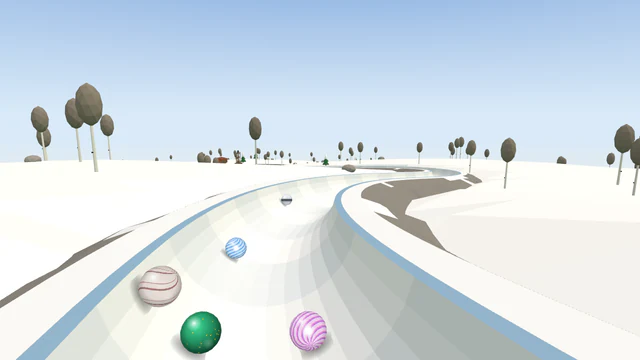
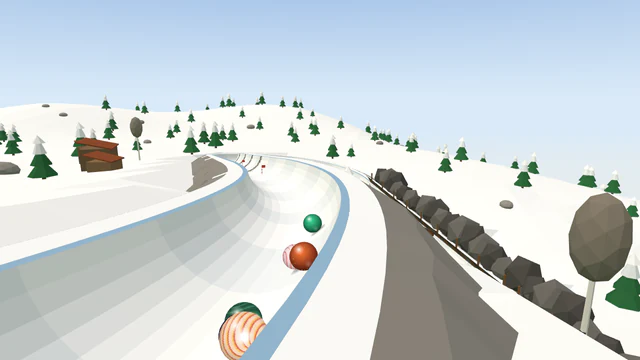
Park City Run: its own layout and opening; its records start again
Until now physically the same track as Dubai Twister. A rolling start from
the summit lift station (the field let go in waves) and a wide first turn,
S-bends through the aspens, the hairpin by the elk, into the timbered mine
tunnel and down the old silver mine's shaft (the big feature and new
signature), the terrain-park run, the spiral and Main Street. Full report
50/50; Wild 37. Data updates 2027-07-20. Off the known failures.

Claude-Session: https://claude.ai/code/session_011vSSkqNPL9kncfzrwF15wS

diff --git a/src/tracks/park-city-run.js b/src/tracks/park-city-run.js
@@ -4,8 +4,8 @@
 // Park City's historic Main Street. Moses's design ("New Track Designs", 7),
 // built with the track kit. (An elk, not a moose: Bobsleigh Run has the moose.)
 const {
-  track, plunge, straight, sBends, sweep, spiral, hairpin, splitter, runIn,
-  block, pileUp, parked, slalom, boost, moguls,
+  track, opening, plunge, straight, sBends, spiral, hairpin, runIn,
+  block, parked, slalom, moguls, peg, brake,
 } = require('../trackKit');
 
 module.exports = track({
@@ -16,10 +16,11 @@ module.exports = track({
   surface: 'snow',
   biome: 'alpine',
   lighting: 'day',
-  signature: 'Mine tunnel',
+  signature: 'Down the Silver King shaft',
   tvCameras: [
-    { section: 'Mine tunnel', at: 0.8, side: 'left', distance: 6, height: 12 },
-    { section: 'Mine splitter', at: 0.8, side: 'right', distance: 6, height: 5 },
+    // (At the foot of the shaft, looking back up it at the field dropping out of the mine.)
+    { section: 'Terrain-park run', at: 0.2, side: 'left', distance: 6, height: 10 },
+    { section: 'Aspen S-bends', at: 0.5, side: 'right', distance: 6, height: 6 },
   ],
   billboardFrame: 'wood',
   // The gate at a summit lift station, the Wasatch peaks all around; the finish at the
@@ -27,33 +28,48 @@ module.exports = track({
   start: { landmark: 'lift-station', scenery: ['bare'], gate: 'barrier', shots: { countdown: 'above', launch: 'high-behind' } },
   finish: { scenery: ['shopfronts'] },
   designChanges: [
-    'A 50 m straight, "Run to the hairpin", before the hairpin: the recipe needs a braking zone before the one sharp bend.',
-    'A few elk on the summit plunge (a pile-up before the slalom gates): without it the strongest marbles win too often, as on Åre Run.',
+    'Its own layout and opening (Moses, 15 Nov 2026: World Tour re-layouts): a rolling start down from the lift station (the field let go in waves) and a wide first turn, S-bends through the aspens, the hairpin by the elk, into the timbered mine tunnel and down the old silver mine\'s shaft (the big feature: a long steep drop), the terrain-park run, the spiral and Main Street.',
+    'A straight, "Run to the hairpin", before the hairpin: the recipe needs a braking zone before the one sharp bend.',
   ],
+  // (The rolling start: down from the summit lift station through the gates, a wide first turn; let go in jittered
+  // waves, a new order every race.)
+  opening: opening('rolling-start', {
+    side: 'right',
+    names: { run: 'Summit run', turn: 'Lift-line turn' },
+    waves: { groups: 5, gap: 0.14, jitter: 0.1 },
+  }),
   sections: [
     {
-      name: 'Summit plunge', shape: plunge(80, { grade: 0.6 }),
-      obstacles: [pileUp({ costume: 'elk', at: 0.42 }), slalom({ from: 0.55, to: 0.97, count: 6, loss: 0.3 })], scenery: ['bare'],
+      name: 'Aspen S-bends', shape: sBends({ first: 'left', radius: 70, degrees: 80, grade: 0.11 }), scenery: ['aspens'], billboards: 2,
+      obstacles: [peg({ costume: 'snowman', at: 0.3, line: 'right' }), peg({ costume: 'snowman', at: 0.7, line: 'left' })],
     },
-    { name: 'Aspen S-bends', shape: sBends({ first: 'left', radius: 75, degrees: 80, grade: 0.13 }), scenery: ['aspens'], billboards: 1 },
-    {
-      name: 'Mine splitter', shape: splitter({ side: 'left', balance: { tipOffset: -0.8, left: { drag: 1.42, scrub: 1.42 }, right: { drag: 0.42, scrub: 0.72 } } }),
-      around: 'mine-headframe', landmarks: [{ name: 'mine-buildings', at: 0.6, side: 'right', distance: 16 }], scenery: ['aspens'],
-    },
-    { name: 'Valley sweep', shape: sweep({ side: 'right', radius: 80, degrees: 160, grade: 0.08 }), features: [boost({ at: 0.08 })], billboards: 2, scenery: ['pines'] },
     // (Not in the design: the recipe's braking zone needs a straight before the one sharp bend.)
-    { name: 'Run to the hairpin', shape: straight(50, { grade: 0.13 }), billboards: 1, scenery: ['aspens'] },
+    {
+      name: 'Run to the hairpin', shape: straight(55, { grade: 0.13 }), scenery: ['aspens'],
+      landmarks: [{ name: 'mine-buildings', at: 0.5, side: 'right', distance: 16 }],
+      obstacles: [slalom({ from: 0.15, to: 0.6, count: 3, loss: 0.3 })],
+    },
     { name: 'Hairpin', shape: hairpin({ side: 'left' }), obstacles: [block({ costume: 'elk', line: 'high', size: 'large' })], scenery: ['pines'] },
     {
-      name: 'Mine tunnel', shape: straight(70, { grade: 0.19 }), tunnel: 'mine',
+      name: 'Mine tunnel', shape: straight(60, { grade: 0.15 }), tunnel: 'mine',
       obstacles: [parked({ costume: 'ore-cart', at: 0.45, side: 'right', length: 8 })],
     },
+    // The track's big feature: a long steep drop down the old silver mine's shaft.
+    { name: 'Down the Silver King shaft', shape: plunge(80, { grade: 0.4, from: 0.16 }), tunnel: 'mine' },
     {
-      name: 'Terrain-park run', shape: straight(110, { grade: 0.22 }),
-      features: [moguls({ from: 0.35, to: 0.9, count: 6 })], figures: ['snowboarder', 'snowboarder', 'skier'],
+      name: 'Terrain-park run', shape: straight(90, { grade: 0.13 }), billboards: 1,
+      features: [brake({ at: 0.05, length: 12, drag: 0.02 }), moguls({ from: 0.4, to: 0.9, count: 6 })], figures: ['snowboarder', 'snowboarder', 'skier'],
       landmarks: [{ name: 'snow-park', at: 0.5, side: 'left', distance: 12 }], scenery: ['pines'],
     },
-    { name: 'Spiral', shape: spiral({ side: 'right', radius: 45, grade: 0.17 }), scenery: ['pines'] },
+    {
+      name: 'Spiral', shape: spiral({ side: 'left', radius: 45, grade: 0.13 }), scenery: ['pines'],
+      obstacles: [peg({ costume: 'snowman', at: 0.35, line: 'left' }), peg({ costume: 'snowman', at: 0.7, line: 'right' })],
+    },
+    {
+      name: 'Main Street', shape: straight(75, { grade: 0.13 }), billboards: 1, scenery: ['shopfronts'],
+      features: [brake({ at: 0.05, length: 12, drag: 0.02 })],
+      obstacles: [slalom({ from: 0.45, to: 0.9, count: 4, loss: 0.4 })],
+    },
     { name: 'Finish', shape: runIn(), overhead: ['chairlift'], scenery: ['shopfronts'] },
   ],
 });

diff --git a/test/samenessAllTracks.test.js b/test/samenessAllTracks.test.js
@@ -35,7 +35,6 @@ const KNOWN = {
   // World Tour.
 
   'portes-du-soleil-run': ['opening-kind', 'layout'],
-  'park-city-run': ['opening', 'opening-kind', 'layout'],
   'baqueira-beret-run': ['opening', 'opening-kind', 'layout'],
 
   'paris-eiffel-tower-run': ['opening', 'opening-kind', 'layout'],

diff --git a/docs/06-decisions.md b/docs/06-decisions.md
@@ -4,7 +4,7 @@
 
 | Date | Decision | Why |
 |---|---|---|
-| 2026-11-15 | **World Tour re-layouts** (Moses, 21:20: every World Tour pack track still on the sameness test's known failures gets its own layout and opening, with a signature feature from the real place, as the Grand Prix re-layouts; then seven new World Tour tracks to fill the pack to 20). Each keeps its name, slug and look; a `--relayout` data update starts its records again (`tracks.records_since`), and a `<slug>-to-world-tour` update sets its new wildness (the pack script now takes a kit track with no series marker as World Tour, as the server does). Done: **Åre Run** (Wild 43, was Easy 29: a rumble start down the summit moguls, the hairpin, a sweep under the gondola, down the World Championship slope as the big feature, the funicular spiral; `2027-07-18-…`), **Greenland Expedition** (Wild 44: a snowdrift start, the sand-trap opening, past the sled dogs, the ice cave as the big feature, a long steep drop inside the glacier; `2027-07-19-…`). | The old World Tour tracks were built from one design and raced alike (several pairs identical, nine with the same opening). |
+| 2026-11-15 | **World Tour re-layouts** (Moses, 21:20: every World Tour pack track still on the sameness test's known failures gets its own layout and opening, with a signature feature from the real place, as the Grand Prix re-layouts; then seven new World Tour tracks to fill the pack to 20). Each keeps its name, slug and look; a `--relayout` data update starts its records again (`tracks.records_since`), and a `<slug>-to-world-tour` update sets its new wildness (the pack script now takes a kit track with no series marker as World Tour, as the server does). Done: **Åre Run** (Wild 43, was Easy 29: a rumble start down the summit moguls, the hairpin, a sweep under the gondola, down the World Championship slope as the big feature, the funicular spiral; `2027-07-18-…`), **Greenland Expedition** (Wild 44: a snowdrift start, the sand-trap opening, past the sled dogs, the ice cave as the big feature, a long steep drop inside the glacier; `2027-07-19-…`), **Park City Run** (Wild 37: a rolling start from the lift station, down the old silver mine's shaft as the big feature; `2027-07-20-…`). | The old World Tour tracks were built from one design and raced alike (several pairs identical, nine with the same opening). |
 | 2026-11-15 | **Seven more Blocks 1 tracks: the Blocks 1 pack filled to 20** (Moses, 13:38: the game-world look, our own voxel worlds with retro-game touches, never another game's names, creatures, textures or falling pieces; same rules as the Canyons and Peaks; 2 Easy, 3 Wild, 2 Extreme). Built, each pushed switched off in the Blocks 1 pack, not free: **Mushroom Grove** (Easy 24: a drop off a giant mushroom's cap), **Sunken Ruins** (Easy 17: a banked turn round a sunken dome), **Clockwork Works** (Wild 39: a splitter round a giant gear), **Crystal Grotto** (Wild 44: a spiral round a crystal spire), **Jungle Ruins** (Wild 45: a waterfall drop through falling water), **Moon Base** (Extreme 60: a 66 m drop over a crater's rim), **Neon Grid** (Extreme 57: a loop over the glowing grid, 69 overtakes); data updates `2027-07-11-…` to `2027-07-17-…`; seven new worlds, `kitLandmarksBlockWorlds.js` and three Blocks 1 start types (`portal-gate`, `block-pyramid`, `gear-tower`). On phones a Block Series cube pillar is now at most 8 cubes (each taller), as Crystal Grotto's tall pillars went over the triangle budget; looks only. Status: project doc `claude/blocks-1-seven-more-status.md`. Waiting for Moses's deploy (with the Canyons and Peaks), then his look at each preview before switching on. | With them the Blocks 1 pack has 20 besides the free Spawn Point and can go on sale. |
 | 2026-11-15 | **Six more Peaks tracks: the Peaks pack filled to 20** (Moses, 09:45: same rules as the six Canyons, and 65+ overtakes on a loop track; 2 Easy, 2 Wild, 2 Extreme; six famous mountains not yet in the series, each with two signature features, unlike the World Tour's alpine resorts). Built, each pushed switched off in the Peaks pack, not free: **Half Dome Granite Slabs** (Easy 31: a drop down the granite slabs below the face), **Huayna Picchu Terraces** (Extreme 48: a splitter round a terraced hill), **Huashan Plank Walk** (Easy 20: a dramatic banked turn round the plank walk's cliff), **Eiger North Face** (Wild 43: a banked spiral round a window pillar), **Etna Valle del Bove** (Extreme 50: a drop into the Valle del Bove), **Tianmen Heaven's Gate** (Wild 41: a loop under the great arch, 69 overtakes); data updates `2027-07-05-…` to `2027-07-10-…`; six palettes and `kitLandmarksPeak2.js`; the pack script knows Peaks. Huayna came out Extreme and Huashan Easy, Etna Extreme and Tianmen Wild (planned otherwise); the mix stays 2/2/2. Status: project doc `claude/peaks-six-more-status.md`. Waiting for Moses's deploy (with the Canyons), then his look at each preview before switching on. | With them the Peaks pack has 20 besides the free Everest Icefall Run and can go on sale. |
 | 2026-11-15 | **A coaster track can have a loop** (Kings Canyon Lost City, the first): over the loop's span the coaster's rails, spine, ties and towers stop (3 m either side), as the loop draws its own track and steel along its own path; before, they ran along the ground under it, 64 m with no rim under the rails, and blocked the follow camera. The rails check (`railGaps`) now finds each rail line's first point along the whole track (by height too), so lines that start after a loop are checked where they are. Looks only: race results unchanged. | A loop in a canyon is the Canyons series' loop; the coaster kit had never met one. |

diff --git a/docs/README.md b/docs/README.md
@@ -8,7 +8,7 @@
 
 **Where it stands:**
 - **Website:** live at marblespins.com (Vercel builds every push to `Main`; production is at `548aeb8`, 15 Nov). Soft start (social media, a daily set of videos, 10–20 invited test pilots) since the week of 26 Oct. **Official launch 1 Dec 2026**, with the Holiday Season, the season pass and the apps. GA4 on since 31 Oct (after cookie consent); the Meta Pixel off.
-- **Tracks: 152 live in ten series** (World Tour, Grand Prix, Coasters, Canyons, Blocks, Track and Field, Rivers, Peaks, Pinball, Arcade), since the 9 motorsport Grand Prix tracks were switched on on 13 Nov; 191 in the database. **Switched off, waiting for Moses:** five more Rivers tracks (on the server since 13 Nov: Yukon Five Finger Run, Arno Old Bridge Run, Chao Phraya Dawn Spiral, Hudson Highlands Run, Iguazú Devil's Throat) and six more Canyons tracks (on Main, **waiting for the server deploy**: Bryce Hoodoo Run, Blyde Potholes Spiral, Taroko Marble Gorge, Samaria Iron Gates, Kings Canyon Lost City, the first coaster track with a loop, and Sumidero Christmas Falls; data updates `2027-06-29-…` to `2027-07-04-…`) and six more Peaks tracks (on Main, **waiting for the same deploy**: Half Dome Granite Slabs, Huayna Picchu Terraces, Huashan Plank Walk, Eiger North Face, Etna Valle del Bove, Tianmen Heaven's Gate; data updates `2027-07-05-…` to `2027-07-10-…`) and seven more Blocks 1 tracks (on Main, **waiting for the same deploy**: Mushroom Grove, Sunken Ruins, Clockwork Works, Crystal Grotto, Jungle Ruins, Moon Base, Neon Grid; data updates `2027-07-11-…` to `2027-07-17-…`); World Tour re-layouts (on Main, **waiting for the same deploy**; their records start again): Åre Run, Greenland Expedition (`2027-07-18-…` to `2027-07-19-…`). Moses deploys Canyons, Peaks, Blocks 1 and the World Tour work together. The 31 holiday tracks are switched on but hidden and closed until 1 Dec 00:00 Swedish time (183 live then).
+- **Tracks: 152 live in ten series** (World Tour, Grand Prix, Coasters, Canyons, Blocks, Track and Field, Rivers, Peaks, Pinball, Arcade), since the 9 motorsport Grand Prix tracks were switched on on 13 Nov; 191 in the database. **Switched off, waiting for Moses:** five more Rivers tracks (on the server since 13 Nov: Yukon Five Finger Run, Arno Old Bridge Run, Chao Phraya Dawn Spiral, Hudson Highlands Run, Iguazú Devil's Throat) and six more Canyons tracks (on Main, **waiting for the server deploy**: Bryce Hoodoo Run, Blyde Potholes Spiral, Taroko Marble Gorge, Samaria Iron Gates, Kings Canyon Lost City, the first coaster track with a loop, and Sumidero Christmas Falls; data updates `2027-06-29-…` to `2027-07-04-…`) and six more Peaks tracks (on Main, **waiting for the same deploy**: Half Dome Granite Slabs, Huayna Picchu Terraces, Huashan Plank Walk, Eiger North Face, Etna Valle del Bove, Tianmen Heaven's Gate; data updates `2027-07-05-…` to `2027-07-10-…`) and seven more Blocks 1 tracks (on Main, **waiting for the same deploy**: Mushroom Grove, Sunken Ruins, Clockwork Works, Crystal Grotto, Jungle Ruins, Moon Base, Neon Grid; data updates `2027-07-11-…` to `2027-07-17-…`); World Tour re-layouts (on Main, **waiting for the same deploy**; their records start again): Åre Run, Greenland Expedition, Park City Run (`2027-07-18-…` to `2027-07-20-…`). Moses deploys Canyons, Peaks, Blocks 1 and the World Tour work together. The 31 holiday tracks are switched on but hidden and closed until 1 Dec 00:00 Swedish time (183 live then).
 - **Server:** last deployed **13 Nov 2026, ~23:00** (code fingerprint `7abad7e4c43d`, Main `7a3342d`; 57 tables, 527 columns): the Stripe webhook's refusals logged and its readiness on `/health`. The week's other deploys (12 Nov `b5cc113debdb` and `bc1bd7ff096f`; 13 Nov ~14:20 `8d7a15a7631e`, ~18:30 `6be622039502`, ~21:45 `c25a2aa05c5b`) brought wildness and track packs, pack sales, the free set of 15, the motorsport Grand Prix tracks, where players come from and the five Rivers. Main is at fingerprint `5636207a9263`: the next deploy brings only the six Canyons tracks.
 - **Wildness and track packs:** every live track is Easy / Wild / Extreme (from 1,000 report races; 68 / 61 / 23 of the 152), shown as a badge and a picker filter. 11 packs (one per series; Pinball and Arcade separate; Blocks 1 and 2), **$7.99, or 1,990 coins + $5.99**, on the website (Stripe, test mode), Google Play and the App Store. **Free set: 15 tracks**, one or two per series. **Complete packs** (20 live besides the free ones): Blocks 2 and Grand Prix; Rivers and Canyons have 20 once their new tracks are on. **Locking and selling are off** (`TRACK_PACKS`); only complete packs lock when it is on. The website keeps saying every track is free until `PACKS_LIVE` (`client/src/shared/packWording.js`). First end-to-end test purchase (Grand Prix pack, Stripe test mode) worked on 13 Nov. Still to do: the store products, the pack terms of sale (draft at `/preview/legal-packs`), Moses's go.
 - **Apps:** iPhone and Android (Capacitor). **Android 1.0.0 (5) in Play internal testing, tested by Moses on 13 Nov:** hit and bump sounds work, the ceremony song stops (the slow-phone and sound fixes of 11–12 Nov confirmed). `client/app-version.json` and the iPhone project at 1.0.0 (5); the next build is 6 (`npm run app:version -- build`). **Store submission planned for 16–20 Nov.**
